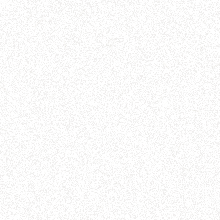
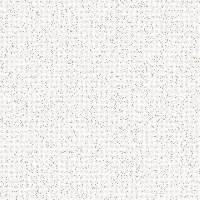
geschichte: Leinen-Grain sichtbar gemacht (Original-PNG war zu ~2% Alpha praktisch unsichtbar; neue Textur mit sichtbaren Fasern generiert)

diff --git a/geschichte.html b/geschichte.html
@@ -554,7 +554,7 @@ image-slot::part(empty){color:#9C8C74}
 
 </div>
 
-<div aria-hidden="true" style="position:fixed;inset:0;pointer-events:none;z-index:90;opacity:.72;mix-blend-mode:multiply;background-image:url('assets/paper-grain.png');background-size:170px 170px"></div>
+<div aria-hidden="true" style="position:fixed;inset:0;pointer-events:none;z-index:90;opacity:.9;background-image:url('assets/paper-grain.png');background-size:200px 200px"></div>
 <div aria-hidden="true" style="position:fixed;inset:0;pointer-events:none;z-index:89;mix-blend-mode:multiply;background:radial-gradient(ellipse 130% 120% at 50% 42%,rgba(120,92,48,0) 58%,rgba(120,92,48,.10) 82%,rgba(90,66,32,.20) 100%)"></div>
 <script src="beforeafter.js" defer></script>
 